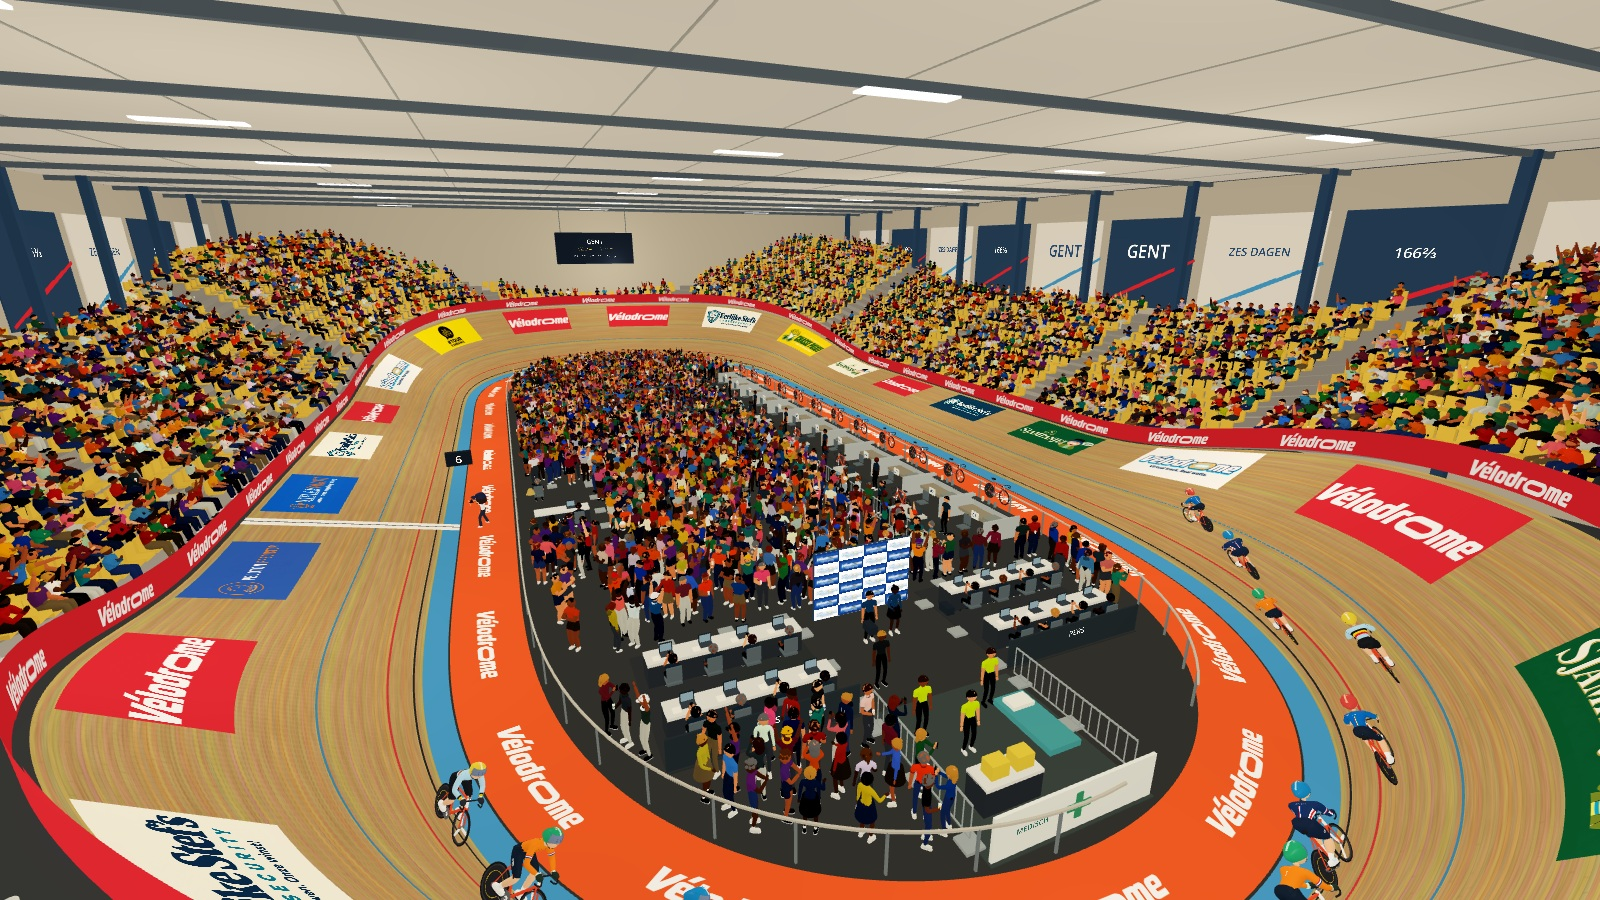
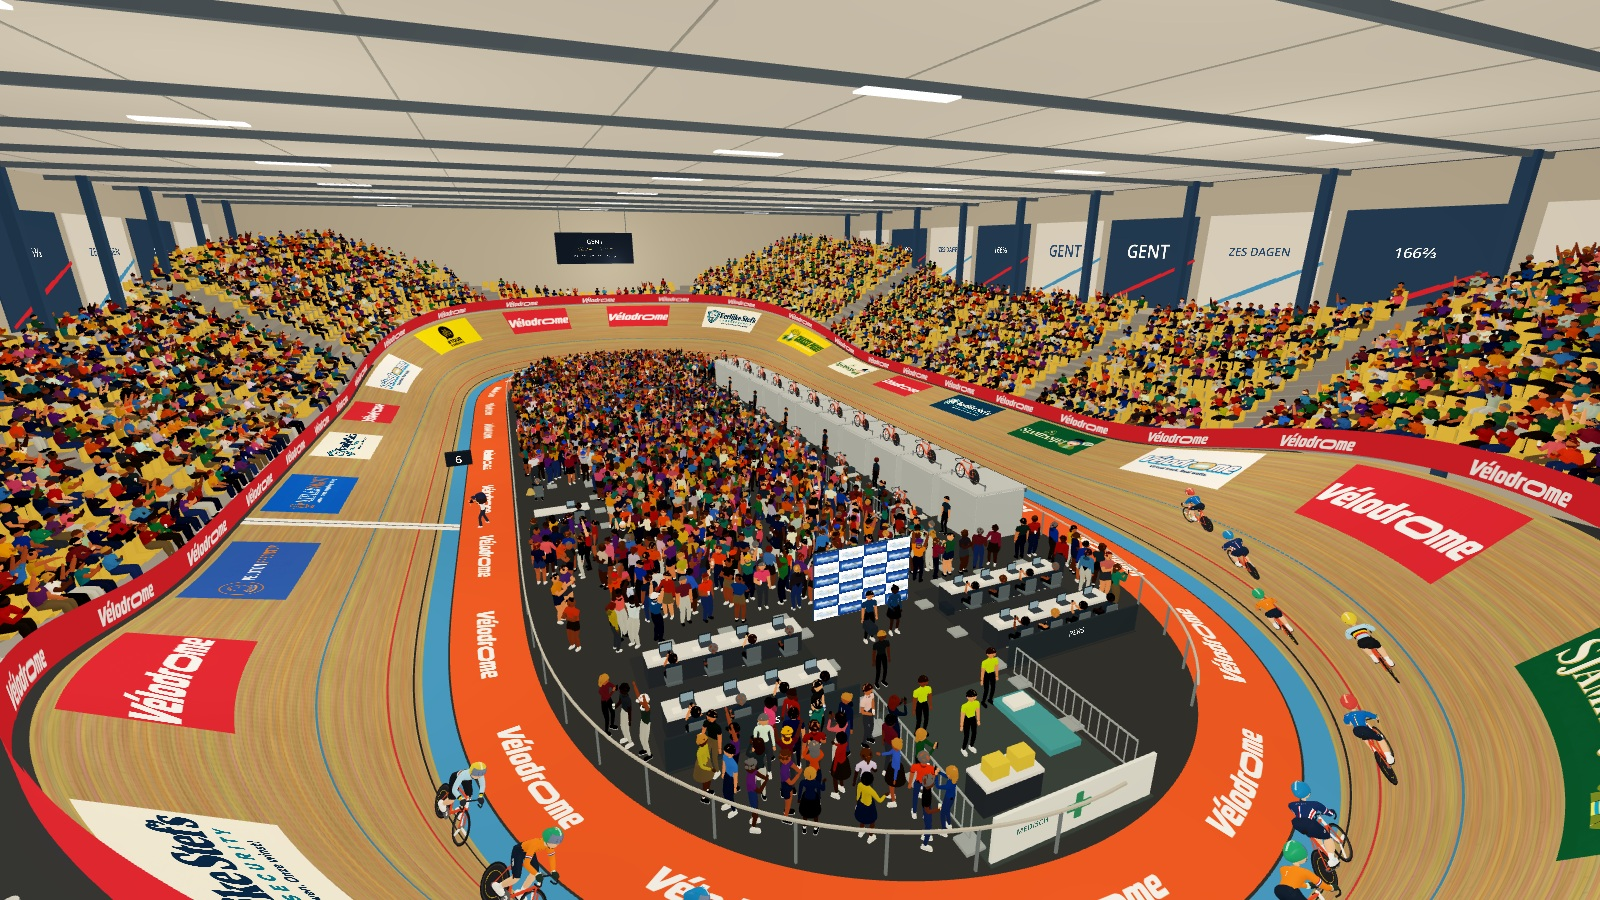
Build Gent track-facing sleeping cabins from the shared Vélodrome box with roofs and curtains

Changed region(s): [[0.4375, 0.3733, 0.6562, 0.5911]]

diff --git a/docs/venues/gent/GODOT.md b/docs/venues/gent/GODOT.md
@@ -20,13 +20,13 @@ De correctie van 26 november 2026 volgt de foto en toelichting van de projecteig
 | Plaats in het foto-overzicht | Godot-inrichting |
 |---|---|
 | Links naast de finish | Met dranghekken afgeschermde juryzone, werktafel/laptop, official, bel en een kleine tweezijdige rondenteller op een uitkragende arm bij de binnenrand van de piste |
-| Rechts, tegenover de finish | Twaalf lage open rennerboxen, rustbanken, dekens, flesplanken, stoelen en verhoogde fietsenrekken; technische strook met werkbanken, koffers, rollers, fietsen en medewerkers |
+| Rechts, tegenover de finish | Twaalf overdekte rennerboxen met een bed, matras, kussen, deken, materiaalplank en geplooide gordijnen; de openingen wijzen naar de piste. Technische strook met werkbanken, koffers, rollers, fietsen en medewerkers |
 | Nabije bocht, links en rechts | Twee open perswerkplekken met zwarte tafelrokken, laptops, notities, stoelen en journalisten |
 | Tussen de perswerkplekken | Mixed zone met camera's op statieven, interviewfiguren en de **bestaande tweezijdige wit/blauwe Vélodrome-backdrop**, rechtstreeks gebouwd door `podium_sponsor_wall.gd` |
 | Centraal vooraan in de bocht | Medische post met herkenbaar groen kruis, behandeltafel, materiaal en medewerkers in fluorescerende kledij |
 | Overige bruikbare binnenvloer | Publiekszone, met enkele kleine statafels; geen grote centrale bareilanden |
 
-De eerdere hoge grijze cabines met zittende figuren zijn vervangen door lage open servicevakken. De figuren in die cabines zijn verwijderd. De grote centrale bareilanden uit het vorige ontwerp zijn eveneens verwijderd.
+De Gent-boxen gebruiken nu de bestaande bed-/gordijnconstructie uit `rennersboxen/rider_box.gd`. De Gent-variant voegt een vast dak, een genummerde voorlijst en een fietsenrek boven het dak toe. De bedden hebben dezelfde matras van 2,00 × 0,85 m, kussens, gevouwen beddengoed en materiaalplanken als Vélodrome. De sober grijze panelen en effen geplooide gordijnen behouden de eigen Gent-afwerking. De ingang met gordijnen staat aan de pistezijde; de achterwand scheidt de box van techniek en publiek. De grote centrale bareilanden blijven verwijderd.
 
 In wereldcoördinaten ligt de finish op +X, de rennerzone op -X en de nabije bocht op -Z. De jurypositie en uitkragende rondenteller zijn afgeleid van de echte baanpositie van de finish, niet los op zicht geplaatst. De rondenteller toont in deze ontwerpweergave het voorbeeldcijfer 6.
 
@@ -49,7 +49,7 @@ De expliciete volgorde staat in `gent_sponsors.gd`. De afbeeldingen worden zonde
 
 De zwevende zonebenamingen **Renners/techniek** en **Mixed zone** zijn verwijderd. Alleen tekst die zichtbaar op een fysiek paneel, bord of display hoort te staan, blijft behouden (zoals de boxnummers, pers-/jurybordjes, medische post en rondenteller).
 
-De baan blijft 166⅔ m met maximaal 52° banking en zeven meter houtoppervlak, een blauwe strook en een oranje binnenzone. De eigen gele tribunes, rechthoekige hal, vlak plafond en wanddecoratie blijven onderdeel van Gent. De bestaande official behoudt zijn vier animaties en attributen; de tv-box behoudt beide presentatoren op zijn eigen platform bij de aankomsttribune. Er worden geen Vélodrome-tenten of nationale rennerhuisjes overgenomen.
+De baan blijft 166⅔ m met maximaal 52° banking en zeven meter houtoppervlak, een blauwe strook en een oranje binnenzone. De eigen gele tribunes, rechthoekige hal, vlak plafond en wanddecoratie blijven onderdeel van Gent. De bestaande official behoudt zijn vier animaties en attributen; de tv-box behoudt beide presentatoren op zijn eigen platform bij de aankomsttribune. De nationale themabekleding, tenten en grote materiaalperken van Vélodrome worden niet automatisch overgenomen; de bed-/gordijnconstructie wordt op uitdrukkelijk verzoek wel hergebruikt voor de Gent-boxen.
 
 Bij standaarddichtheid bevat de bruikbare publieksvloer 1.388 bezoekers, in de eenvoudige uitvoering 604. Medewerkers en tribunes staan los van die telling. Publiek wordt per sector met afstandsafhankelijke detailniveaus weergegeven. De bezetting respecteert de medische, pers-, interview-, jury- en rennerzones.
 

diff --git a/docs/venues/gent/VALIDATIE.md b/docs/venues/gent/VALIDATIE.md
@@ -4,7 +4,7 @@
 
 | Controle | Resultaat |
 |---|---|
-| `test_gent_design.gd` | Geslaagd: nominale zesrondenbaan, gesloten lus, 7 m oppervlakbreedte, 52° banking, productiecoördinaten op Vélodrome, twaalf lage open rennerboxen tegenover de finish; jury, bel en uitkragende rondenteller aan de echte finish; twee perszones, centrale medische post en mixed zone; hergebruik van beide zijden van de Vélodrome-backdrop; camera met finish links; wit logo op rode piste-/boardingpanelen; vertaalde zones; publieksdekking in normale en eenvoudige uitvoering |
+| `test_gent_design.gd` | Geslaagd: nominale zesrondenbaan, gesloten lus, 7 m oppervlakbreedte, 52° banking, productiecoördinaten op Vélodrome, twaalf overdekte rennerboxen met bed en gordijnen tegenover de finish, met de openingen naar de piste; jury, bel en uitkragende rondenteller aan de echte finish; twee perszones, centrale medische post en mixed zone; hergebruik van beide zijden van de Vélodrome-backdrop; camera met finish links; wit logo op rode piste-/boardingpanelen; vertaalde zones; publieksdekking in normale en eenvoudige uitvoering |
 | `test_venue_configuration.gd` | Opnieuw geslaagd na de fotocorrectie: beide locatieprofielen en de standaardconfiguratie |
 | `test_official_ready.gd` | Geslaagd: bestaande official behoudt zijn vier clips, props en resetgedrag na extractie naar gedeeld script |
 | `test_finish_line_race.gd` | Geslaagd: echte Vélodrome-puntenkoers met start, sprints, official en finish |
@@ -34,3 +34,5 @@ Een aparte gerenderde kleurcontrole met identieke vlakken en gelijke belichting 
 De middenpleinreclame is daarna naar de rode/oranje vloer verplaatst. De opnieuw geslaagde inrichtingstest controleert dat alle vertices van die opdruk op vloerhoogte liggen, de achtergrondkleur gelijk is aan de binnenstrook en de oude reclamevlakken in de omheining ontbreken. De vier screenshots tonen deze definitieve plaatsing.
 
 De vloerlogo’s zijn vervolgens 180° gedraaid, zodat ze vanaf de buitenzijde leesbaar zijn. De Gent-inrichtingstest is opnieuw geslaagd. Standpunt 3 kijkt nu loodrecht op de rij rennerboxen vanaf de buitenste tribune, over de piste heen. De capturer maakt daarnaast een dichter frontaal detailbeeld vanaf dezelfde zijde (`05-rennersboxen-frontaal-detail.jpg`); beide zijn echte Godot-renders.
+
+De laatste boxcorrectie hergebruikt de bestaande Vélodrome-bed-/gordijnconstructie via een Gent-variant met vast dak. De opnieuw geslaagde Gent-test controleert dat elke box die gedeelde constructie gebruikt, twee gordijnen en een dak heeft, en dat de ingang van het publiek weg naar de piste wijst. De materiaalperken van de nationale Vélodrome-boxen worden niet overgenomen. De vijf screenshots zijn vernieuwd om het interieur vanaf de piste te beoordelen.
